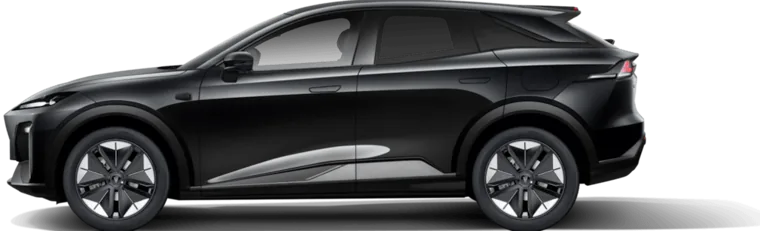
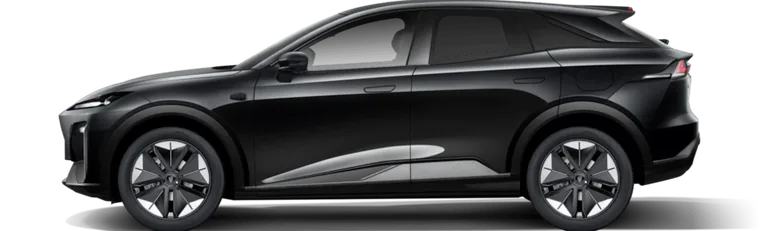
Avto v animaciji na sredino, kolesa se vrtijo
Claude-Session: https://claude.ai/code/session_01TwbropWduMwqnhMD99X87k

diff --git a/changan-slovenija/src/index.html b/changan-slovenija/src/index.html
@@ -87,7 +87,7 @@ footer .wrap{display:flex;justify-content:space-between;flex-wrap:wrap;gap:12px}
 .scene .road{position:absolute;left:0;right:0;bottom:0;height:48px;background:#0a1118;border-top:2px solid var(--line)}
 .scene .road i{position:absolute;top:22px;left:0;width:200%;height:4px;background:repeating-linear-gradient(90deg,#9aa7b8 0 36px,transparent 36px 84px);animation:drift .9s linear infinite}
 .scene .vehicle{position:absolute;left:50%;bottom:20px;width:360px;margin-left:-180px;animation:bob 1.6s ease-in-out infinite}
-.cars{position:relative;aspect-ratio:760/290;transform:scaleX(-1)}.cars img{position:absolute;inset:0;width:100%;height:100%;object-fit:contain;opacity:0;transition:opacity 1.4s ease;filter:drop-shadow(0 10px 14px rgba(0,0,0,.5))}.cars img.on{opacity:1}
+.cars{position:relative;aspect-ratio:760/231;transform:scaleX(-1)}.cl{position:absolute;inset:0;opacity:0;transition:opacity 1.4s ease;filter:drop-shadow(0 10px 14px rgba(0,0,0,.5))}.cl.on{opacity:1}.cl img{position:absolute;inset:0;width:100%;height:100%;display:block}.wh{position:absolute;aspect-ratio:1;width:12.673%;border-radius:50%;background-image:var(--img);background-size:789.06% auto;background-repeat:no-repeat;animation:wspin .45s linear infinite}.wh.f{left:16.040%;top:56.680%;background-position:18.367% 97.214%}.wh.r{left:69.802%;top:56.680%;background-position:79.932% 97.214%}@keyframes wspin{to{transform:rotate(-360deg)}}@media(prefers-reduced-motion:reduce){.wh{animation:none}}
 .scene .glow{position:absolute;left:100%;top:50%;width:260px;height:60px;margin-left:-40px;background:linear-gradient(90deg,rgba(255,244,200,.5),transparent);clip-path:polygon(0 35%,100% 0,100% 100%,0 65%);filter:blur(2px)}
 .wheel{transform-box:fill-box;transform-origin:center;animation:spin .6s linear infinite}
 @keyframes drift{to{transform:translateX(-50%)}}
@@ -135,7 +135,7 @@ a.card{display:block}
     <div class="road"><i></i></div>
     <div class="vehicle">
       <div class="glow"></div>
-      <div class="cars"><img src="/img/gen/hero-orange.webp" alt="" class="on"><img src="/img/gen/hero-white.webp" alt="" class=""><img src="/img/gen/hero-black.webp" alt="" class=""><img src="/img/gen/hero-gray.webp" alt="" class=""><img src="/img/gen/hero-green.webp" alt="" class=""></div>
+      <div class="cars"><div class="cl on" style="--img:url(/img/gen/hero-orange.webp)"><img src="/img/gen/hero-orange.webp" alt=""><i class="wh f"></i><i class="wh r"></i></div><div class="cl" style="--img:url(/img/gen/hero-white.webp)"><img src="/img/gen/hero-white.webp" alt=""><i class="wh f"></i><i class="wh r"></i></div><div class="cl" style="--img:url(/img/gen/hero-black.webp)"><img src="/img/gen/hero-black.webp" alt=""><i class="wh f"></i><i class="wh r"></i></div><div class="cl" style="--img:url(/img/gen/hero-gray.webp)"><img src="/img/gen/hero-gray.webp" alt=""><i class="wh f"></i><i class="wh r"></i></div><div class="cl" style="--img:url(/img/gen/hero-green.webp)"><img src="/img/gen/hero-green.webp" alt=""><i class="wh f"></i><i class="wh r"></i></div></div>
     </div>
   </div>
   <div class="stats">
@@ -207,7 +207,7 @@ a.card{display:block}
 <script>
 document.getElementById('tt').addEventListener('click',function(){var r=document.documentElement,n=r.getAttribute('data-theme')==='dark'?'light':'dark';r.setAttribute('data-theme',n);try{localStorage.setItem('theme',n)}catch(e){}});
 (function(){var m=new URLSearchParams(location.search).get('model');if(!m)return;var map={'deepal-s05':'Deepal S05','deepal-s07':'Deepal S07','cs55-plus':'Changan CS55 PLUS','cs75-plus':'Changan CS75 PLUS'};var sel=document.querySelector('select[name=model]');if(sel&&map[m])sel.value=map[m]})();
-(function(){var c=[].slice.call(document.querySelectorAll('.cars img'));if(c.length<2||matchMedia('(prefers-reduced-motion: reduce)').matches)return;var i=0;setInterval(function(){c[i].classList.remove('on');i=(i+1)%c.length;c[i].classList.add('on')},4500)})();
+(function(){var c=[].slice.call(document.querySelectorAll('.cars .cl'));if(c.length<2||matchMedia('(prefers-reduced-motion: reduce)').matches)return;var i=0;setInterval(function(){c[i].classList.remove('on');i=(i+1)%c.length;c[i].classList.add('on')},4500)})();
 document.getElementById('y').textContent=new Date().getFullYear();
 document.getElementById('f').addEventListener('submit',async function(e){
   e.preventDefault();
